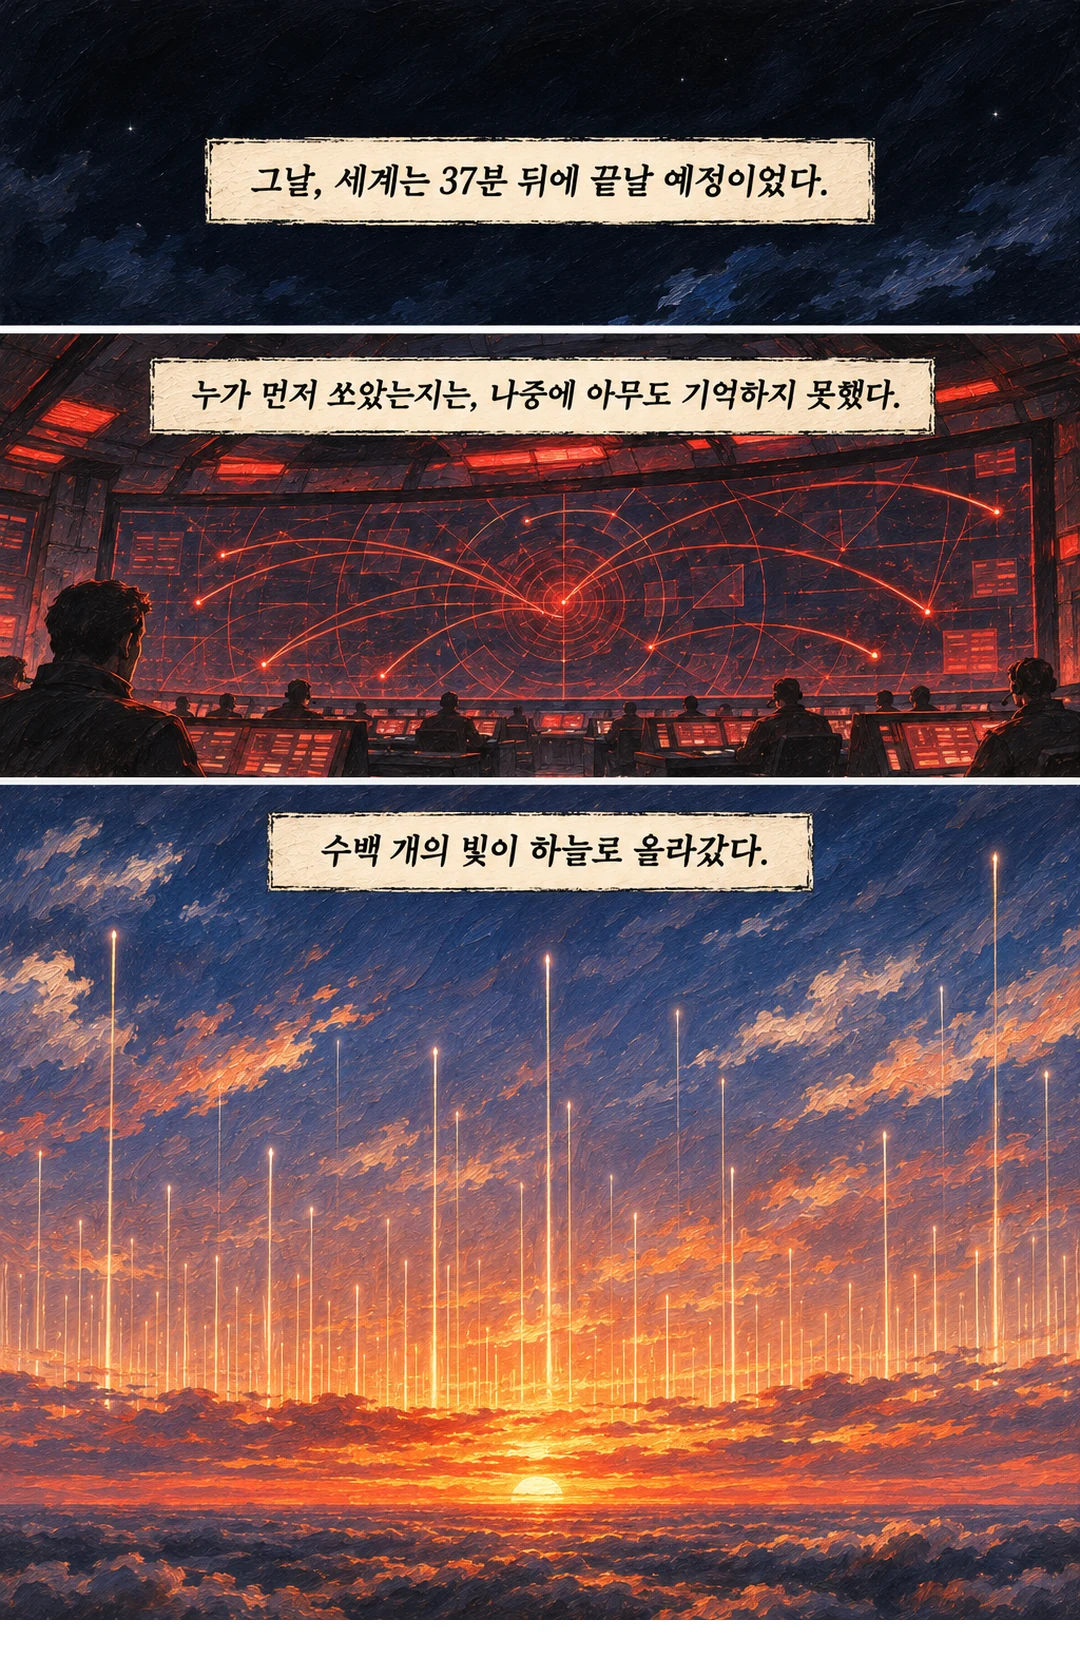
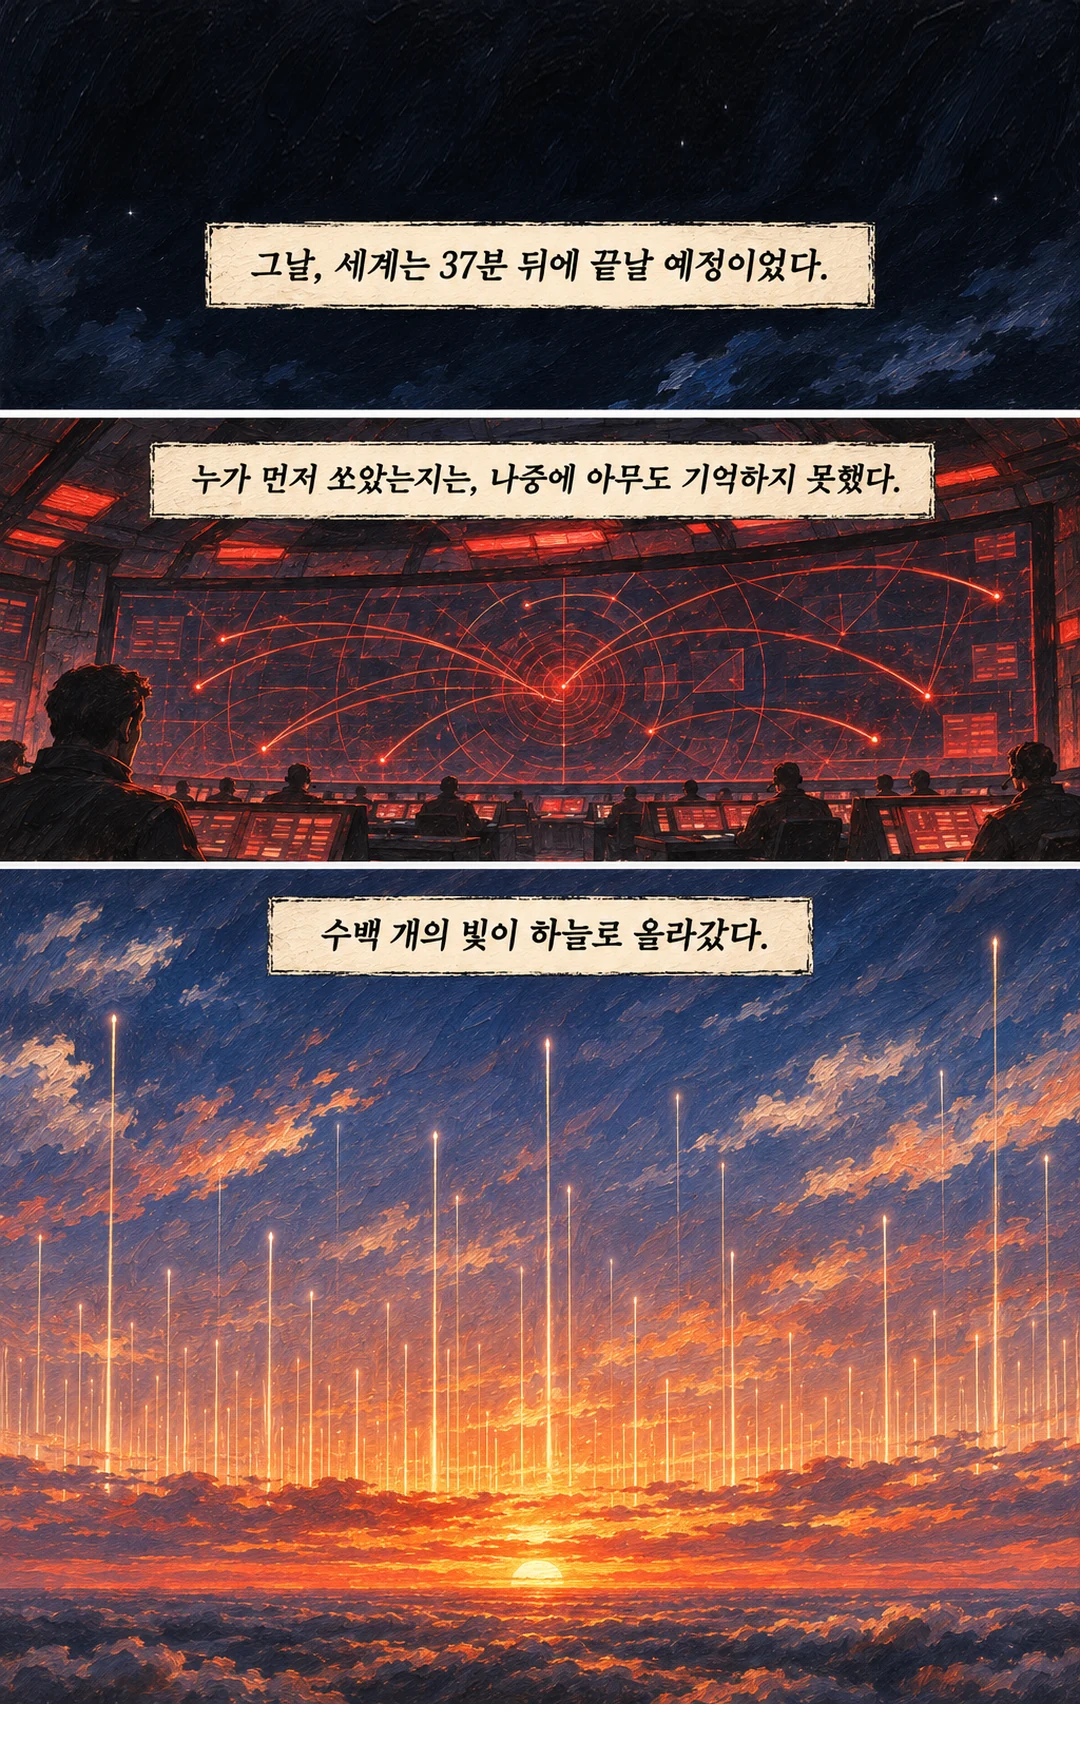
만화방 joy 1화 01장: 컷1 캡션이 맨 위 1/10에 걸려 밤하늘을 80px 늘려 내림 (원본은 raw/01.png, 주인 2026-11-27)

diff --git a/tasks/manhwa-joy-01.md b/tasks/manhwa-joy-01.md
@@ -46,3 +46,4 @@
 - 정할 것: 표어.
 - 2026-11-27 주인 확정: 표어 "하루에 한 번이면 충분하다" / "Once a day is enough" (`build_manhwa.py --check`가 표어를 꼭 요구함). 작품 등록·표지 먼저 커밋, 1화 그림 4장 요청.
 - 2026-11-27 그림 4장 받음(그림 검수 통과) → 1화 이름 `znmzv`, 공개일 2026-12-01, 조각 4개. 검수가 04장 "바깥 얇은 흰 테두리"를 잘라 달라 했으나 원본 가장자리(좌우·위아래 8px)를 재 보니 흰 줄이 없어 원본 그대로 썼다(사람 확인).
+- 2026-11-27 주인 지적 "01장 컷1 캡션 상자가 맨 위 1/10에 조금 걸림" → 다시 그리지 않고 원본은 `assets/manhwa/joy/1/raw/01.png`로 두고, `01.png`는 컷1 맨 위 밤하늘 100px을 180px로 늘려 컷 안 내용을 80px 아래로 내림(1024×1536 → 1024×1616, 1/10 선 162px, 캡션 상자 위끝 약 211px). 회차 그림(01.webp·thumb·og) 다시 만듦, 이름 `znmzv` 그대로. 검사 셋 통과.
